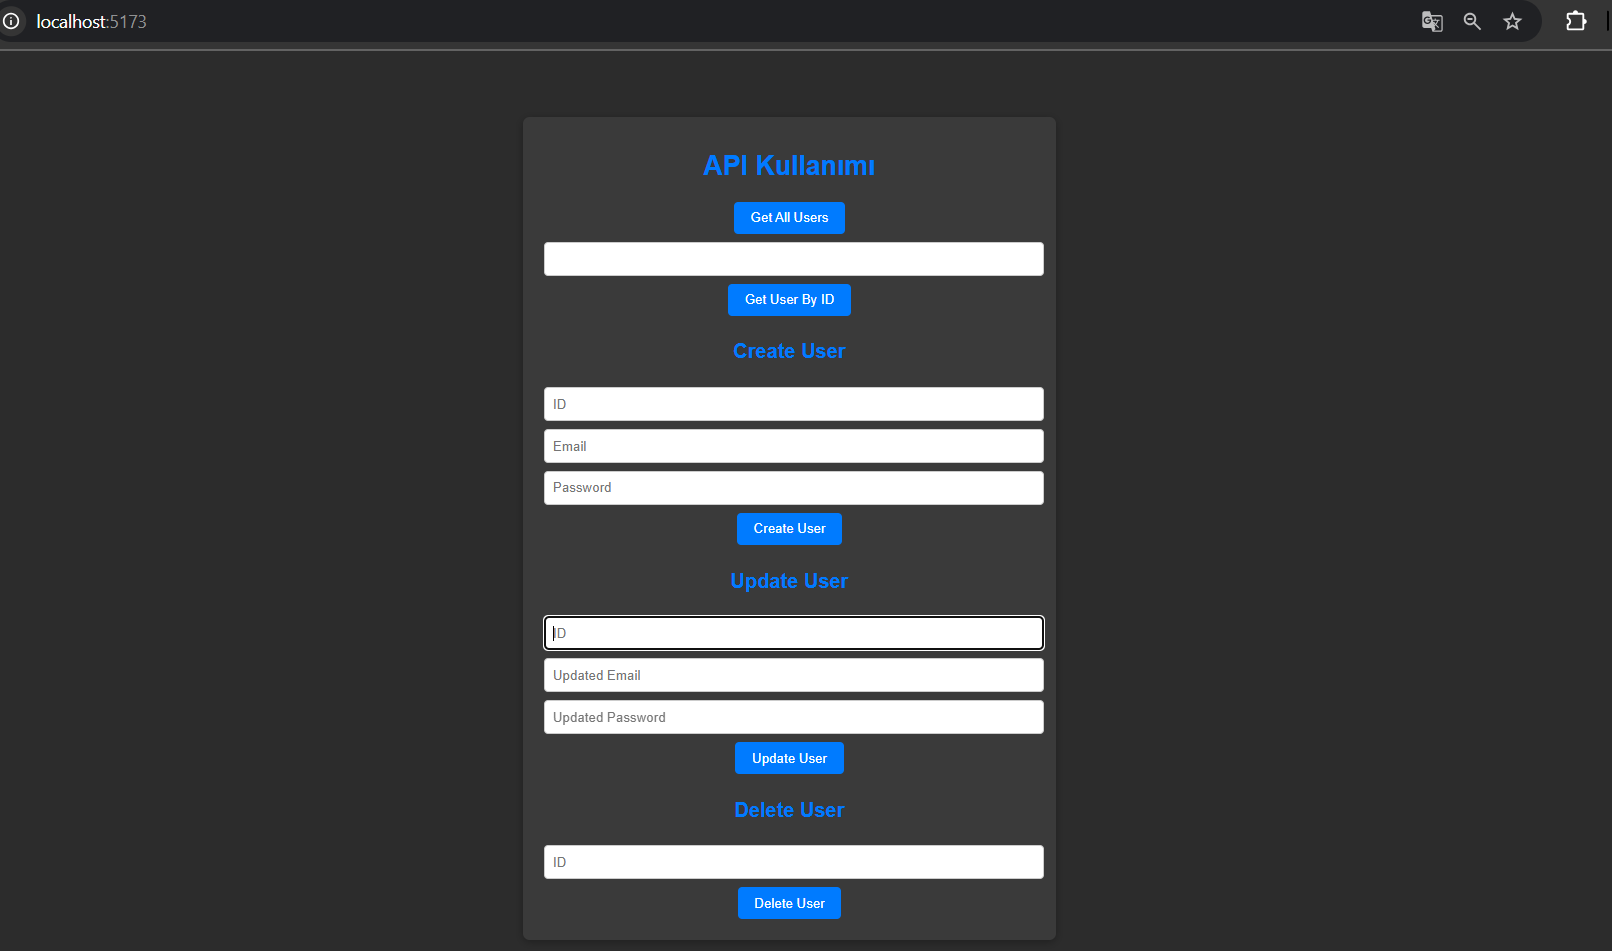
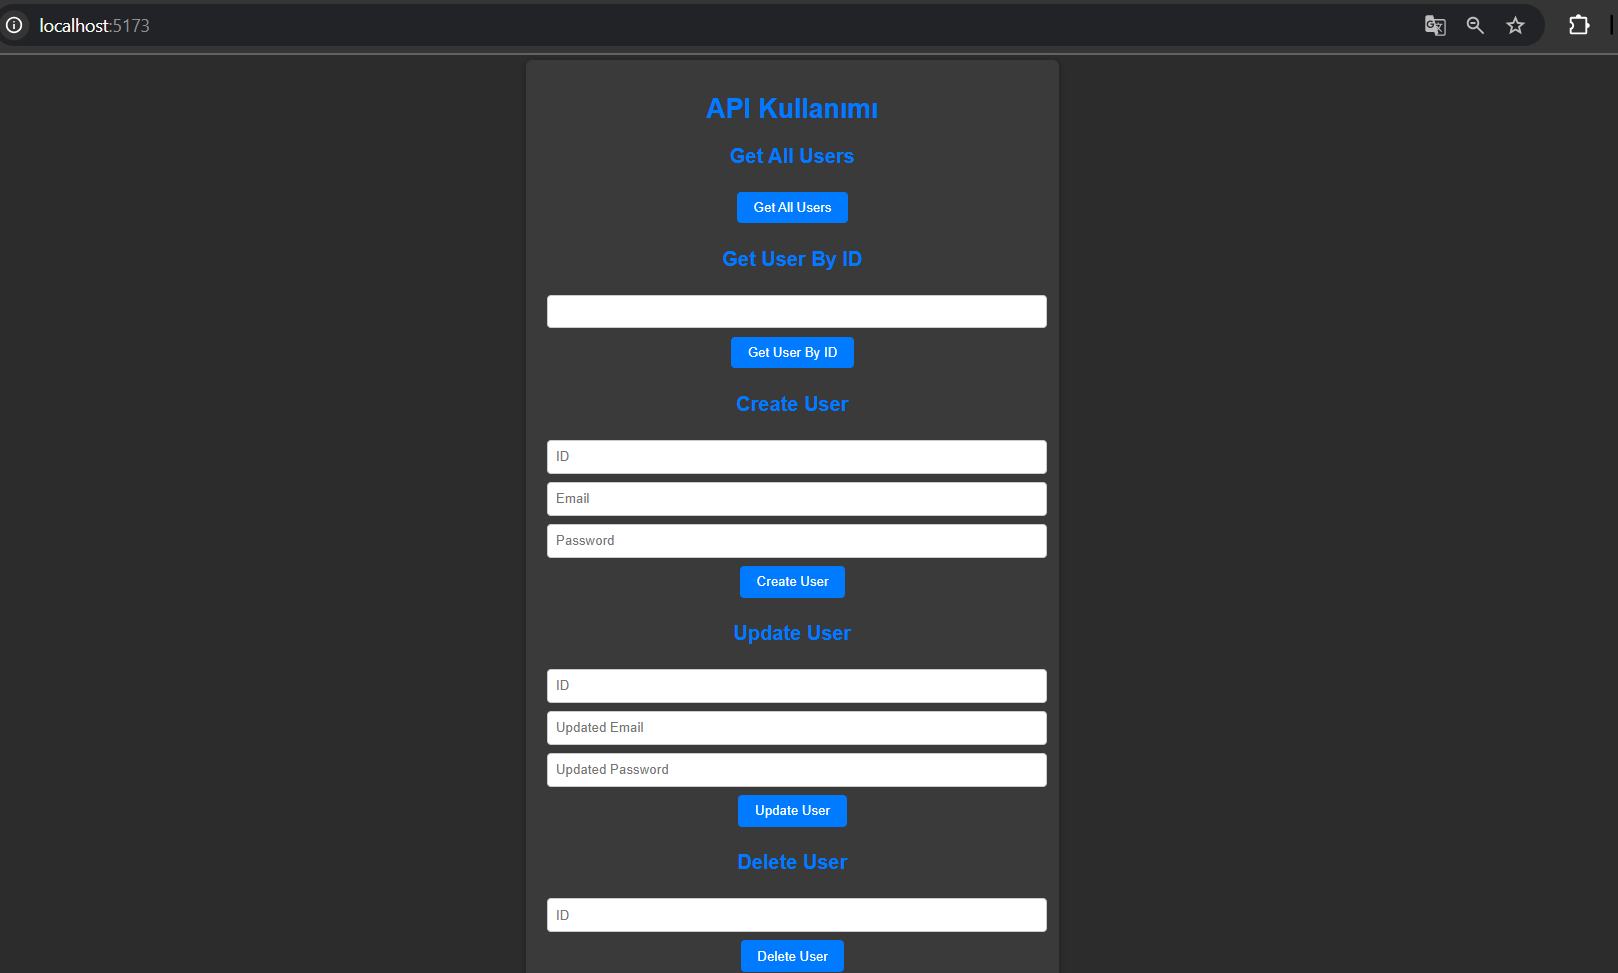
update

Changed region(s): [[0.3102, 0.1525, 0.6514, 1.0], [0.0, 0.0, 1.0, 0.061], [0.4342, 0.0915, 0.5583, 0.122]]

diff --git a/src/App.jsx b/src/App.jsx
@@ -52,7 +52,10 @@ useEffect(()=>{
       <div className='container'>
 
           <h1>API Kullanımı</h1>
+          <h2>Get All Users</h2>
         <button onClick={()=>getAllUsers()}>Get All Users</button>
+
+        <h2>Get User By ID</h2>
         <input type="number" value={id} onChange={(e)=>setId(e.target.value)}/>
         <button onClick={()=>getUserById(id)}>Get User By ID</button>
 

diff --git a/README.md b/README.md
@@ -4,6 +4,9 @@ Bu proje, React uygulamasında API isteklerinin nasıl yönetileceğini göstere
 
 ![Uygulama Görünümü](./public/view.png)
 
+## 🎯 Proje Amacı
+Bu proje, modern web geliştirmede sıkça kullanılan API entegrasyonlarını öğrenmek ve uygulamak isteyenler için hazırlanmıştır. CRUD (Create, Read, Update, Delete) operasyonlarının tamamını içermektedir.
+
 ## 🛠 Kurulum ve Çalıştırma
 
 ```bash
@@ -32,29 +35,79 @@ npm run dev
 - ID'ye göre kullanıcı güncelleme
 - ID'ye göre kullanıcı silme
 
+## 💡 Kullanım Örnekleri
+
+### 👥 Kullanıcıları Listeleme
+```javascript
+const getUsers = async () => {
+  try {
+    const response = await axios.get('http://localhost:3000/users');
+    setUsers(response.data);
+  } catch (error) {
+    console.error('Kullanıcılar getirilirken hata oluştu:', error);
+  }
+};
+```
+
+### 🔍 ID ile Kullanıcı Getirme
+```javascript
+const getUserById = async (id) => {
+  try {
+    const response = await axios.get(`http://localhost:3000/users/${id}`);
+    setSelectedUser(response.data);
+  } catch (error) {
+    console.error('Kullanıcı getirilirken hata oluştu:', error);
+  }
+};
+```
+
 ## 🔍 API Endpoints
 
-| Endpoint | Açıklama |
-|----------|----------|
-| GET /users | Tüm kullanıcıları getirir |
-| GET /users/:id | ID'ye göre kullanıcı getirir |
-| POST /users | Yeni kullanıcı oluşturur |
-| PUT /users/:id | ID'ye göre kullanıcı günceller |
-| DELETE /users/:id | ID'ye göre kullanıcı siler |
+| Endpoint | Metod | Açıklama | Örnek İstek |
+|----------|--------|----------|-------------|
+| /users | GET | Tüm kullanıcıları getirir | `GET http://localhost:3000/users` |
+| /users/:id | GET | ID'ye göre kullanıcı getirir | `GET http://localhost:3000/users/1` |
+| /users | POST | Yeni kullanıcı oluşturur | `POST http://localhost:3000/users` |
+| /users/:id | PUT | ID'ye göre kullanıcı günceller | `PUT http://localhost:3000/users/1` |
+| /users/:id | DELETE | ID'ye göre kullanıcı siler | `DELETE http://localhost:3000/users/1` |
 
 ## 🛠 Kullanılan Teknolojiler
 
-- React
+- React v18
 - Axios
 - JSON Server
 - Vite
+- CSS3 (Modern Grid ve Flexbox özellikleri)
 
 ## 📝 Önemli Notlar
 
 - JSON Server'ın çalışması için `db.json` dosyasının `src` klasörü içinde olduğundan emin olun
 - API istekleri için varsayılan port: 3000
 - React uygulaması varsayılan port: 5173
+- Projeyi geliştirme ortamında test etmek için JSON Server'ın çalışır durumda olması gerekir
+
+## 🔄 Gelecek Güncellemeler
+
+- [ ] Authentication sistemi eklenmesi
+- [ ] Kullanıcı rollerine göre yetkilendirme
+- [ ] Arama ve filtreleme özellikleri
+- [ ] Sayfalama sistemi
+- [ ] Dark/Light tema desteği
+
+## 🤝 Katkıda Bulunma
+
+1. Bu projeyi fork edin
+2. Yeni bir branch oluşturun (`git checkout -b feature/amazing-feature`)
+3. Değişikliklerinizi commit edin (`git commit -m 'feat: Add amazing feature'`)
+4. Branch'inizi push edin (`git push origin feature/amazing-feature`)
+5. Pull Request oluşturun
 
 ## 📜 Lisans
 
-MIT © [2024]
+MIT © [2024] [kadirn7]
+
+## 📞 İletişim
+
+Kadir Neidik - [@kadirn7](https://github.com/kadirn7)
+
+Proje Linki: [https://github.com/kadirn7/API-UsingReact](https://github.com/kadirn7/API-UsingReact)
